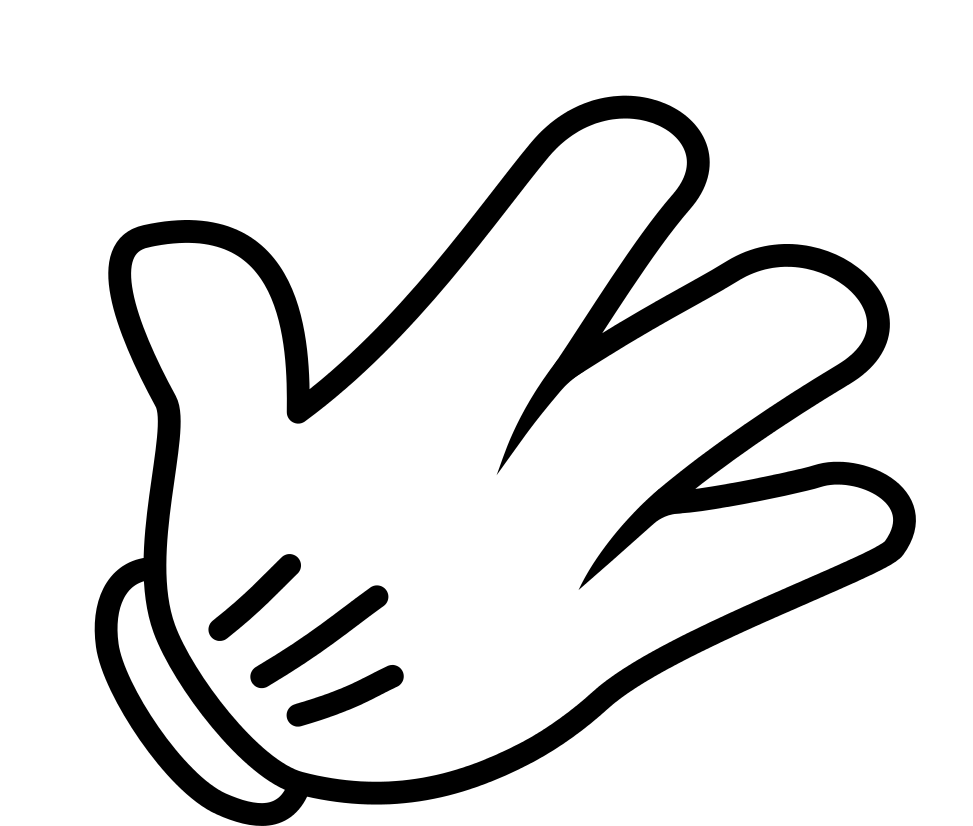
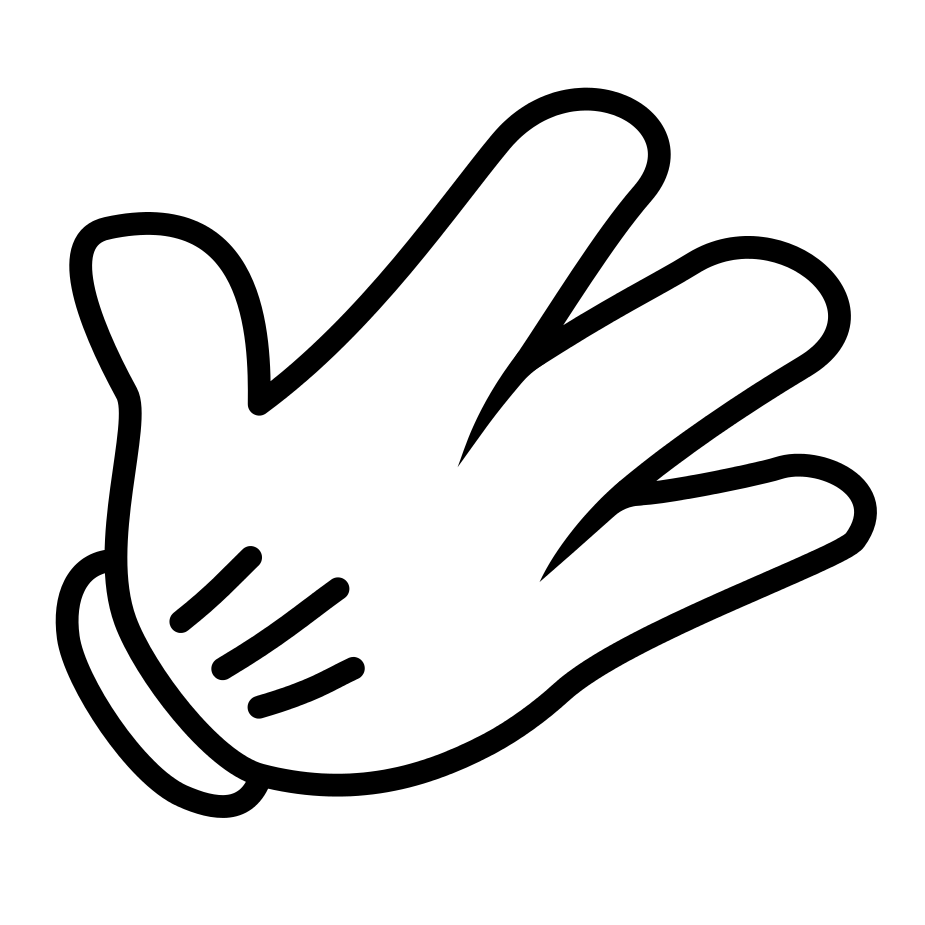
Manos enfrentadas y boton replay

Changed region(s): [[0.0605, 0.0908, 0.9686, 1.0], [0.5751, 0.6053, 0.6054, 0.6356]]

diff --git a/index.css b/index.css
@@ -79,6 +79,7 @@ body {
 .pc > img {
 	height: 15rem;
 	width: 15rem;
+	transform: scaleX(-1);
 }
 
 .acumuladoPlayer > img {
@@ -103,3 +104,10 @@ body {
 	font-weight: bold;
 }
 
+.replayBtn {
+	color: red;
+	height: 3rem;
+	width: 7rem;
+	background-color: white;
+	font-size: 1.5rem;
+}

diff --git a/javaScript.js b/javaScript.js
@@ -83,6 +83,7 @@ const agregaEmpate = () => {
 
 
 const replayBtn = document.createElement('button');
+replayBtn.classList.add('replayBtn');
 replayBtn.textContent = 'Replay';
 
 function sumaRound() {
